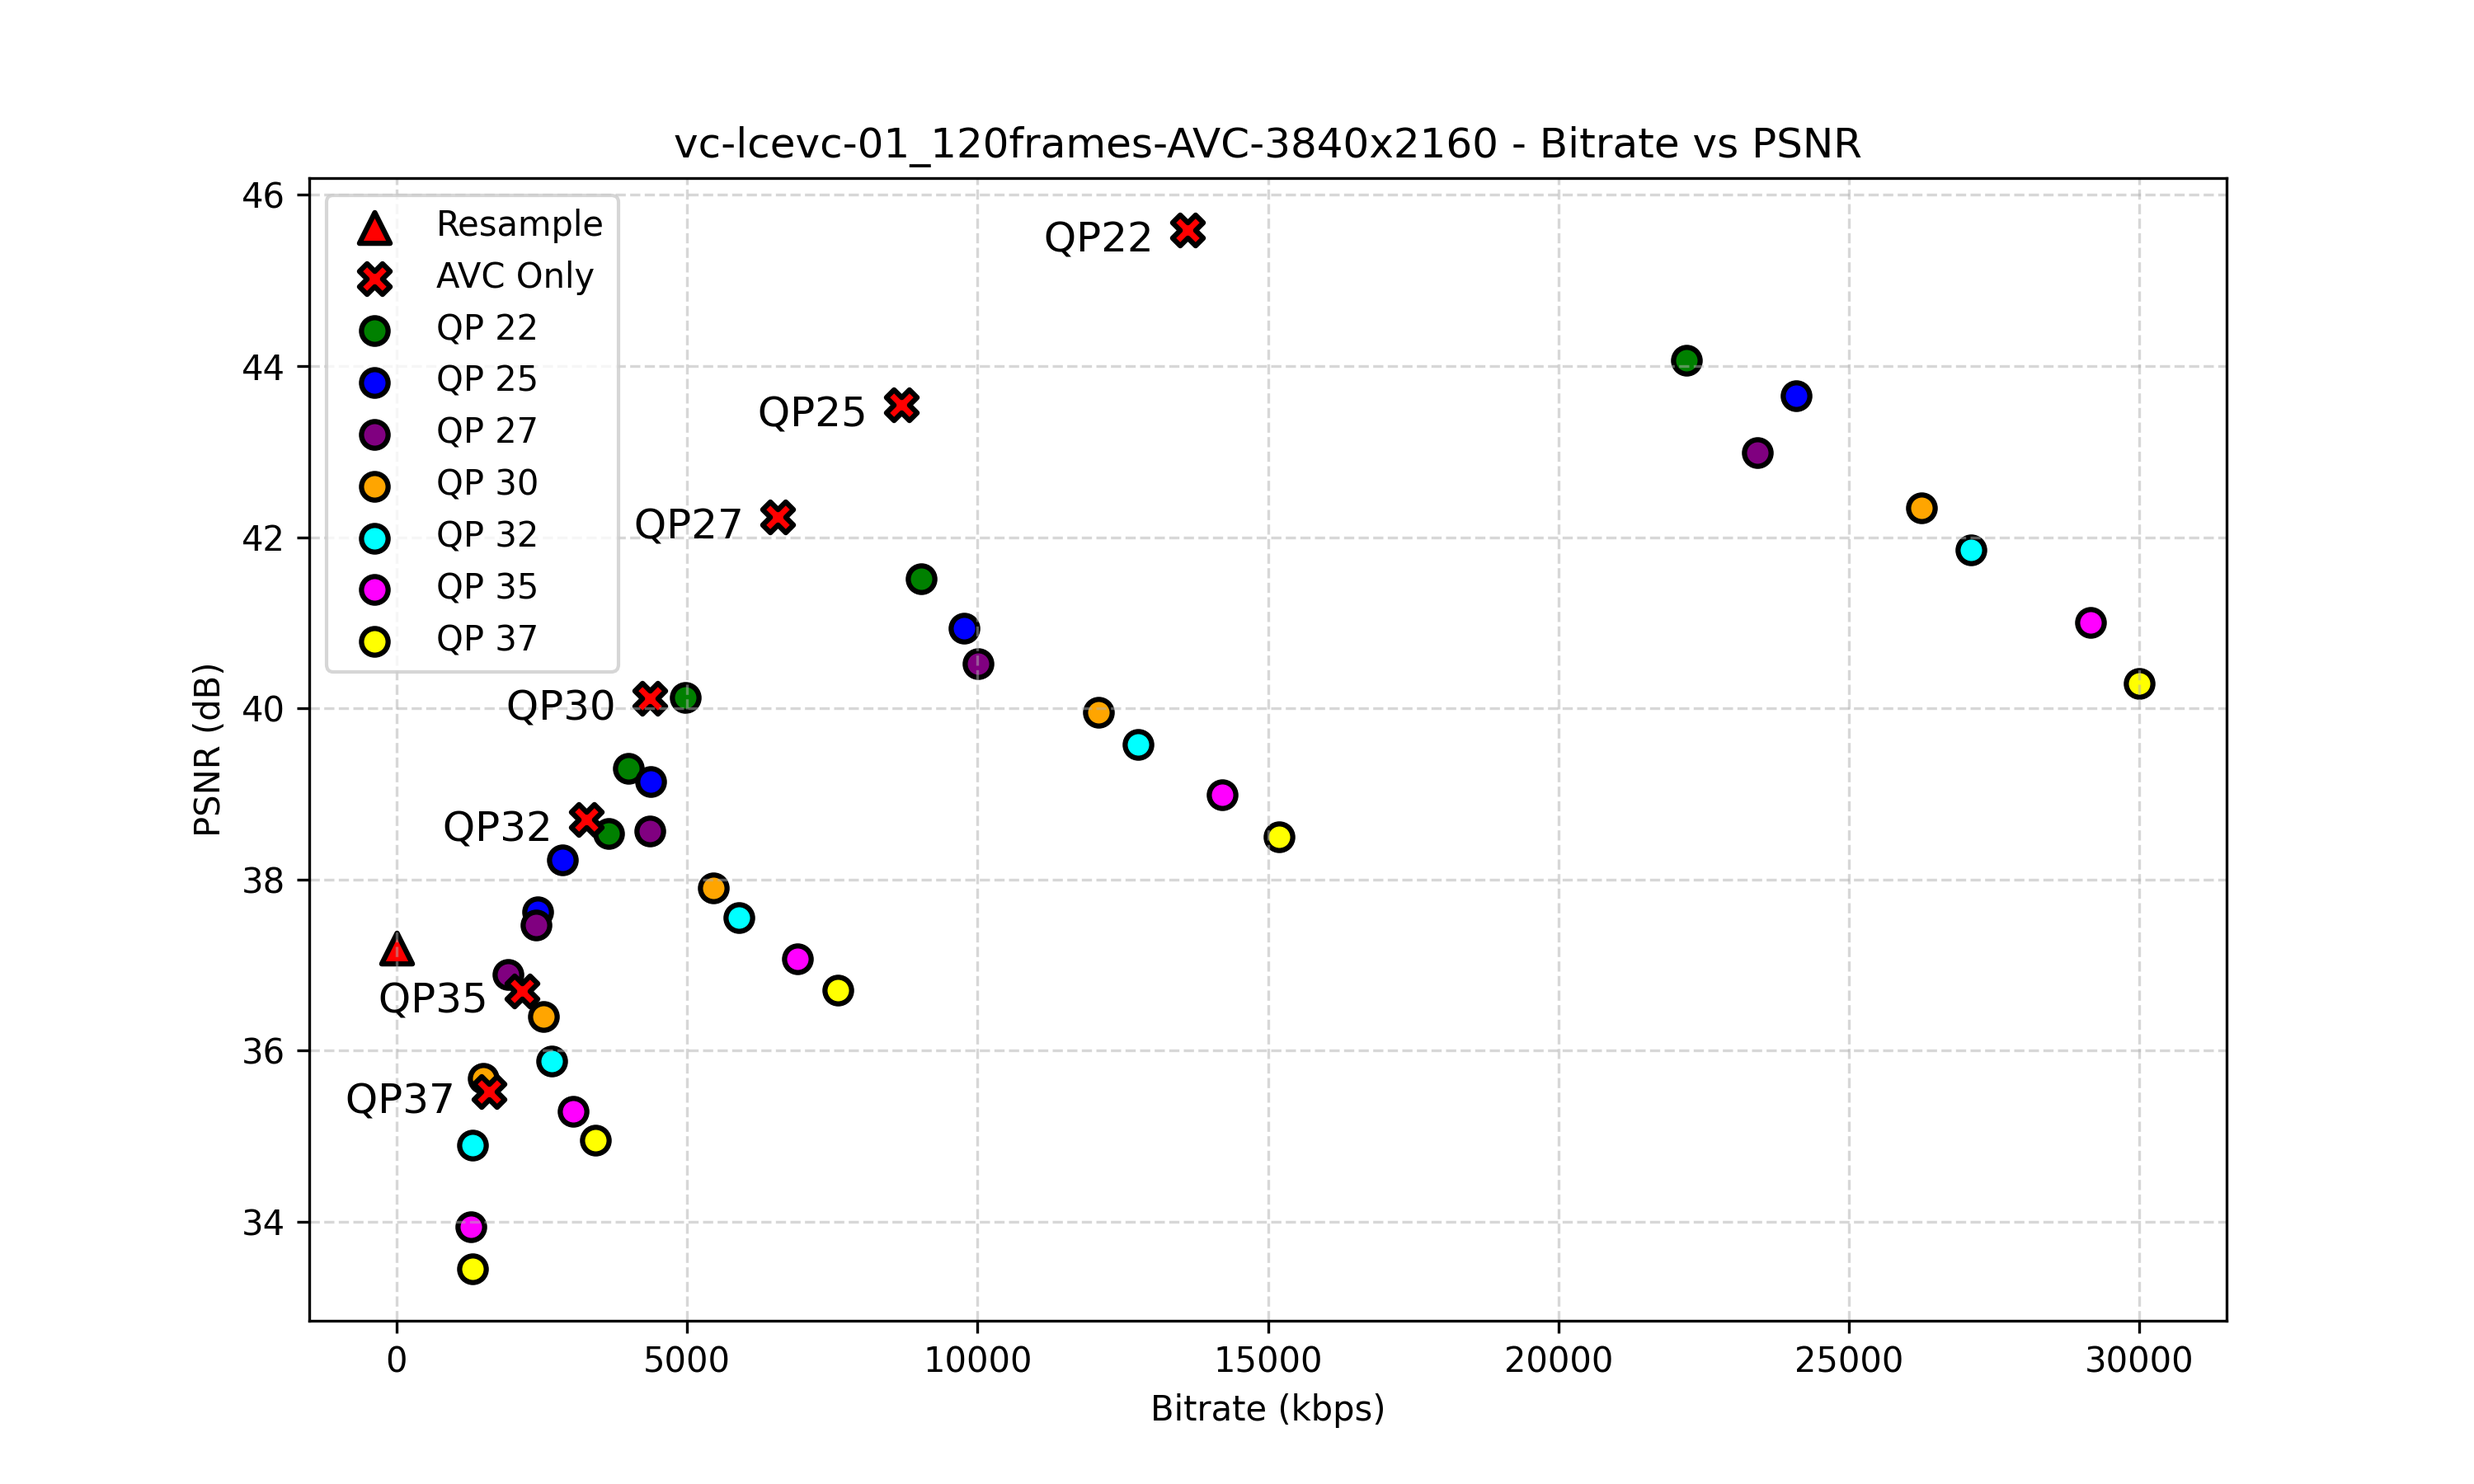
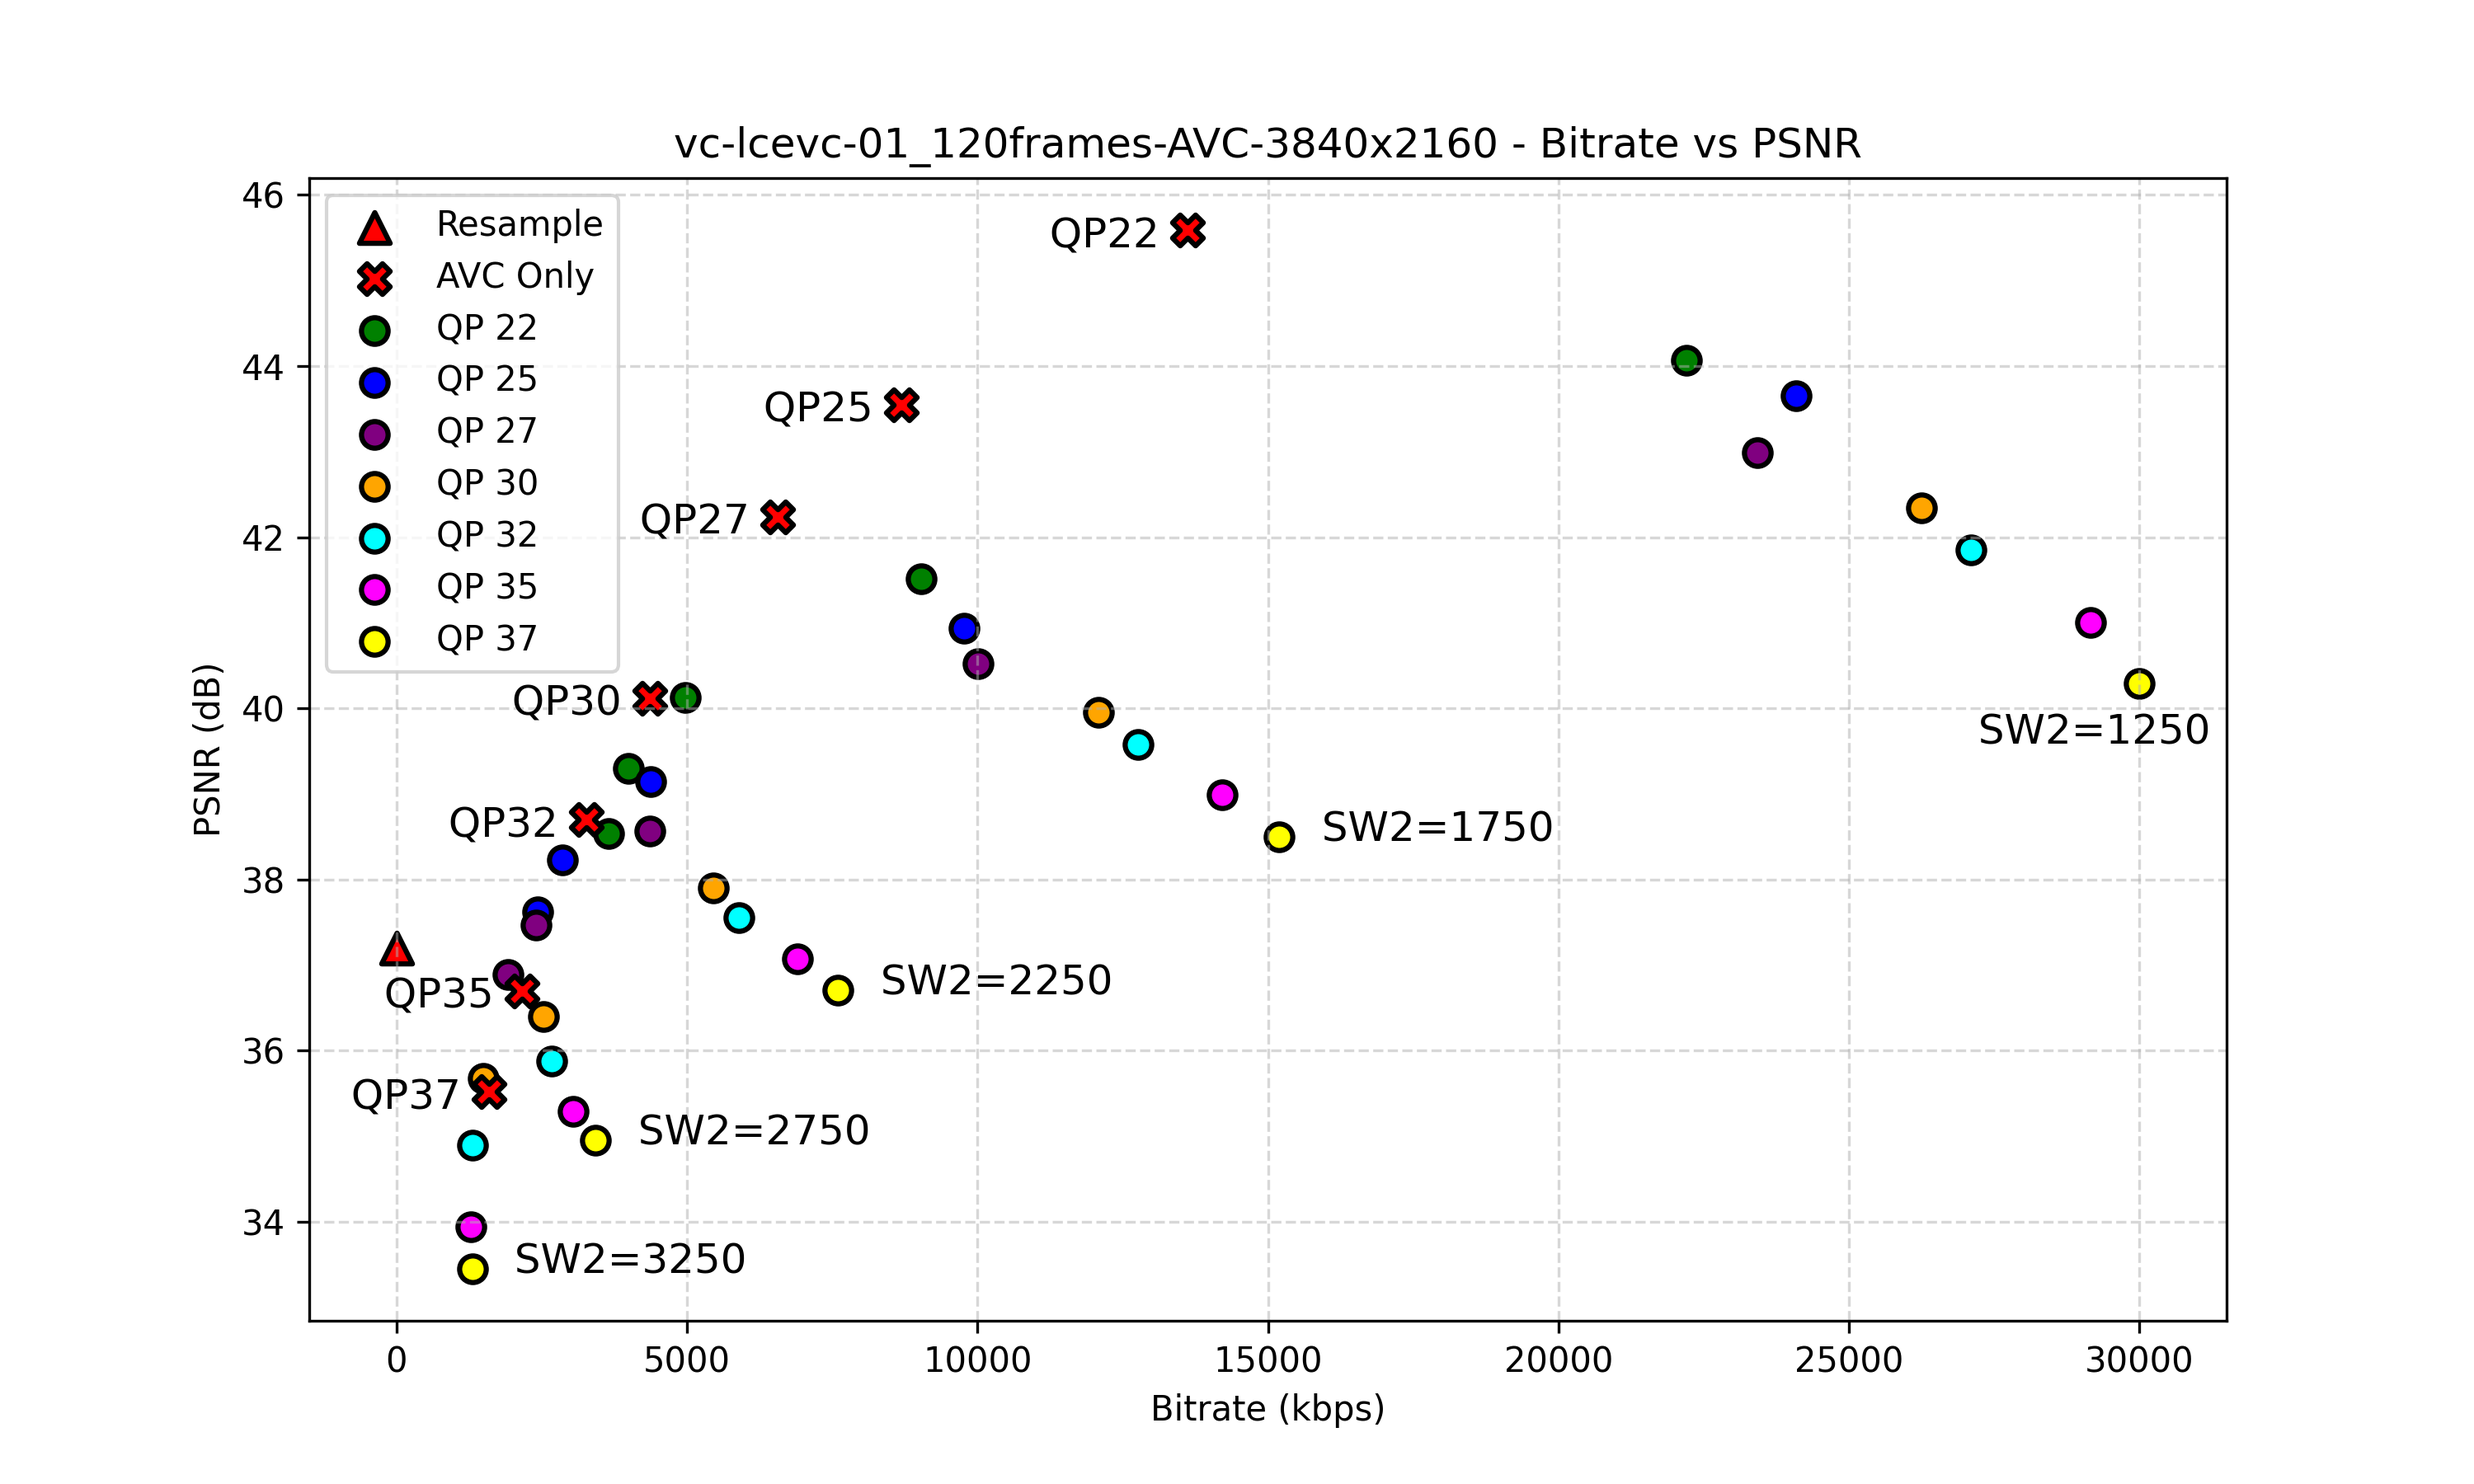
Updated via sync.sh

diff --git a/PSNR/psnr.py b/PSNR/psnr.py
@@ -95,20 +95,45 @@ for csv_path in csv_files:
             if row["sw2"] != 264 and row["sw2"] != 265:
                 if row["qp"] == 37:
                     text_label += f" SW2={row['sw2']}"
-                    xoffset = 200
-                    yoffset = -0.5
+                    xoffset = 500
+                    yoffset = -0.15
                 pass
 
             if is_reference:
-                xoffset = -1500
-                yoffset = 0.25
+                xoffset = -2200
+                yoffset = -0.3
             elif is_resample:
                 xoffset = -100
                 yoffset = -100
-            
+
             if row["sw2"] == 1250:
-                xoffset = -2000
-                yoffset = -0.8
+                xoffset -= 350
+                yoffset -= 0.15
+            
+            if row["sw2"] == 3250:
+                xoffset -= 200
+                yoffset -= 0.35
+
+            if row["sw2"] == 2750:
+                xoffset -= 500
+                yoffset -= 0.3
+
+            if row["sw2"] == 1750:
+                xoffset -= 50
+                yoffset += 0.25
+
+            if row["sw2"] == 2250:
+                xoffset -= 200
+                yoffset -= 0.15
+
+            # if row["sw2"] == 250:
+            #     xoffset -= 0
+            #     yoffset -= 0.15
+
+            if row["sw2"] == 750:
+                xoffset -= 3000
+                yoffset -= 0.6
+
 
 
             plt.text(
